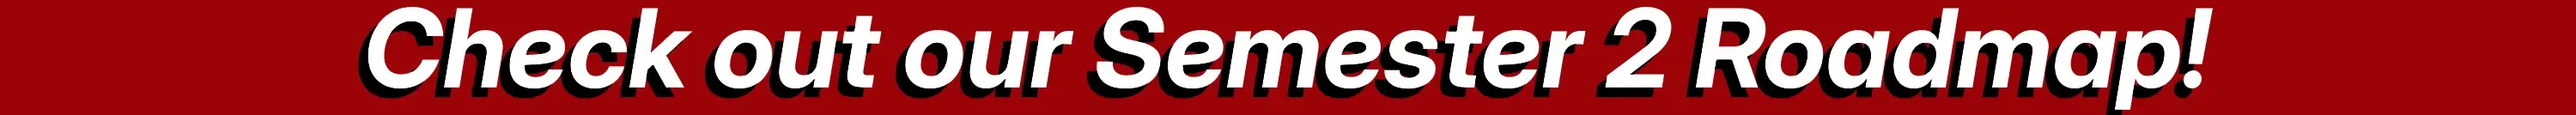
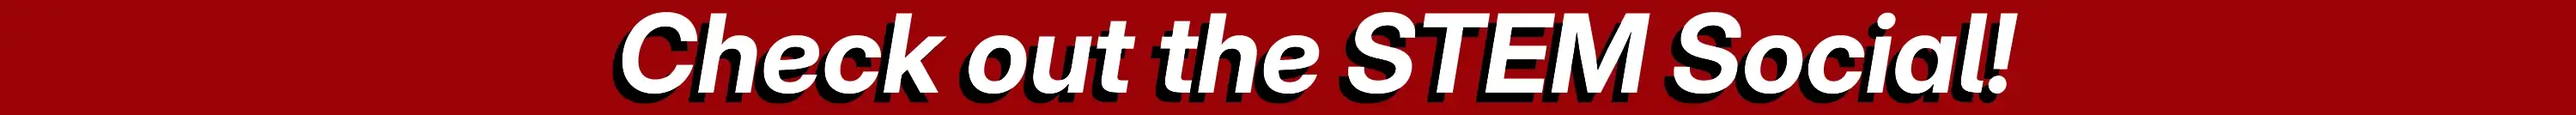
Stem Social O-Week Post
- Added Stem Social O-Week Post
- Added social O-Week Banner
- Change roadmap to reflect new changes

diff --git a/layouts/partials/extended_head.html b/layouts/partials/extended_head.html
@@ -1,5 +1,5 @@
-<a href="/posts/2026/jul-20-semester-2-roadmap/">
-  <div>
+<a href="/posts/2026/jul-23-stem-social-oweek/">
+  <div align="center">
     <img src="/promobanner.webp">
   </div>
 </a>

diff --git a/content/posts/2026/jul-23-stem-social-oweek/index.md b/content/posts/2026/jul-23-stem-social-oweek/index.md
@@ -1,0 +1,24 @@
++++
+title = "STEM Social: Orientation Week Launch!"
+date = "2026-07-23T9:30:10+10:00"
+author = "Swinux Committee"
+description = ""
+readingTime = true
+draft = false
+tags = ["event", "stem-social"]
++++
+
+The STEM Social is Swinburne's hottest new social event for students in Engineering, The Sciences and Technology! Join us weekly at Next Do'r, just beside campus. 
+
+Launching this O-Week, meet fellow students from various disciplines, make some new friends and have some fun.
+
+**When: Wed 29th July, 5PM**
+
+**Where: Next Do'r, Burwood Road, Hawthorn**
+
+[**Click here to get your free tickets**](https://campus.hellorubric.com/?eid=70015) 
+
+![Swinburne Event Details](images/stemsocial.webp)
+
+
+
